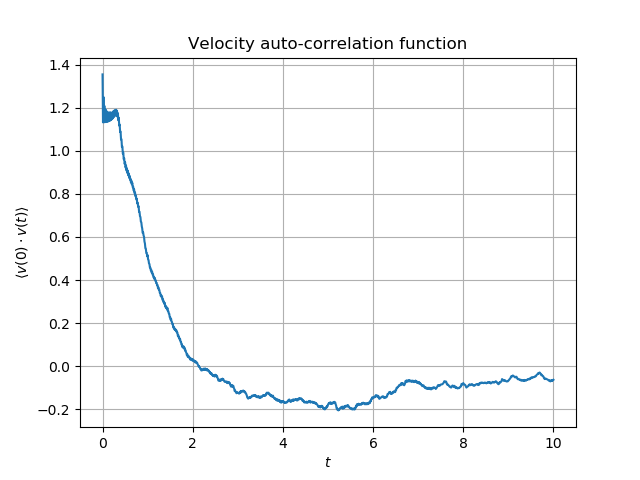
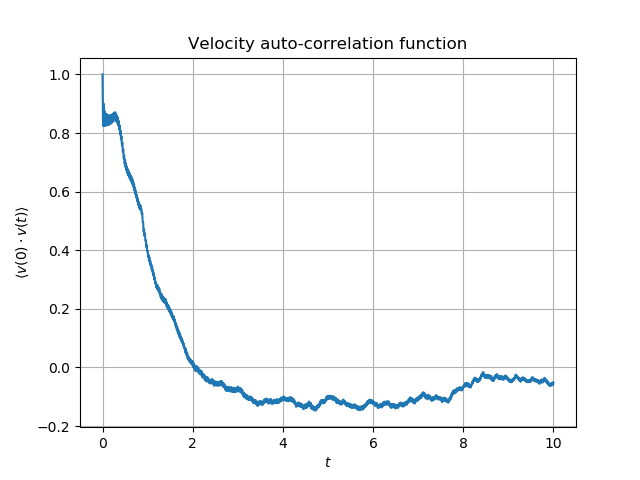
merge

diff --git a/NAtoms.py b/NAtoms.py
@@ -262,12 +262,13 @@ def Energy(r, v, t, m, plot = True):
 def velocity_corr(v, t, plot=True):
 
     nt = len(t)
-    N = v.shape[1]
+    N = int(v.shape[1]/3)
     v_corr = np.zeros(nt)
 
+
     for i in range(nt):
-        v_corr[i] = np.dot(v[0], v[i])
-    v_corr /= N
+        v_corr[i] = np.dot(v[0], v[i])/N
+    v_corr /= v_corr[0]
 
     if plot:
         plt.plot(t, v_corr)

diff --git a/NAtoms_tasks.py b/NAtoms_tasks.py
@@ -57,6 +57,9 @@ def test_vel():
 
     v_ave /= n
 
+    intgr = np.trapz(v_ave, t, dx = 0.1)
+    print("Diff: ", intgr)
+
     plt.plot(t, v_ave)
     plt.xlabel(r'$t$')
     plt.ylabel(r'$\langle v(0) \cdot v(t) \rangle$')
